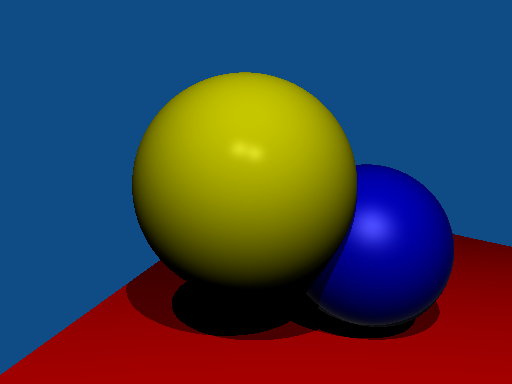
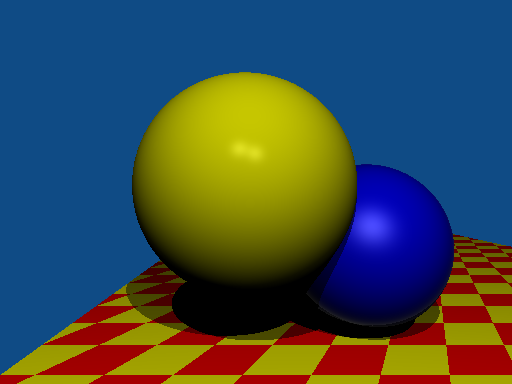
fixed dimensions of checker spots

Changed region(s): [[0.0, 0.5938, 1.0, 1.0]]

diff --git a/Raytracer/Checkerboard.cpp b/Raytracer/Checkerboard.cpp
@@ -21,7 +21,8 @@ Checkerboard::Checkerboard(Color c1, Color c2, Point u, Point v, Point w, Color 
 Color Checkerboard::illuminate(IntersectData interData)
 {
 	// Checkerboard checker size constant
-	float checkerSize = 1.0f / 16.0f;
+	float checkerWidth = 1.0f / 32.0f;
+	float checkerHeight = 1.0f / 16.0f;
 
 	// Convert intersection point into barycentric coordinates
 	RowVector3f v0 = p1.vector() - p0.vector(), v1 = p2.vector() - p0.vector(), v2 = interData.P.vector() - p0.vector();
@@ -49,7 +50,7 @@ Color Checkerboard::illuminate(IntersectData interData)
 	Color C_o;
 
 	bool rowEven, colEven;
-	int row = (int)(uv[0] / checkerSize), col = (int)uv[1] / checkerSize;
+	int row = (int)(uv[0] / checkerWidth), col = (int)(uv[1] / checkerHeight);
 	if (row % 2 == 0)
 	{
 		rowEven = true;
@@ -72,22 +73,22 @@ Color Checkerboard::illuminate(IntersectData interData)
 	{
 		if (colEven)
 		{
-			C_o = this->color1;
+			C_o = this->color2;
 		}
 		else
 		{
-			C_o = this->color2;
+			C_o = this->color1;
 		}
 	}
 	else
 	{
 		if (colEven)
 		{
-			C_o = this->color2;
+			C_o = this->color1;
 		}
 		else
 		{
-			C_o = this->color1;
+			C_o = this->color2;
 		}
 	}
 
